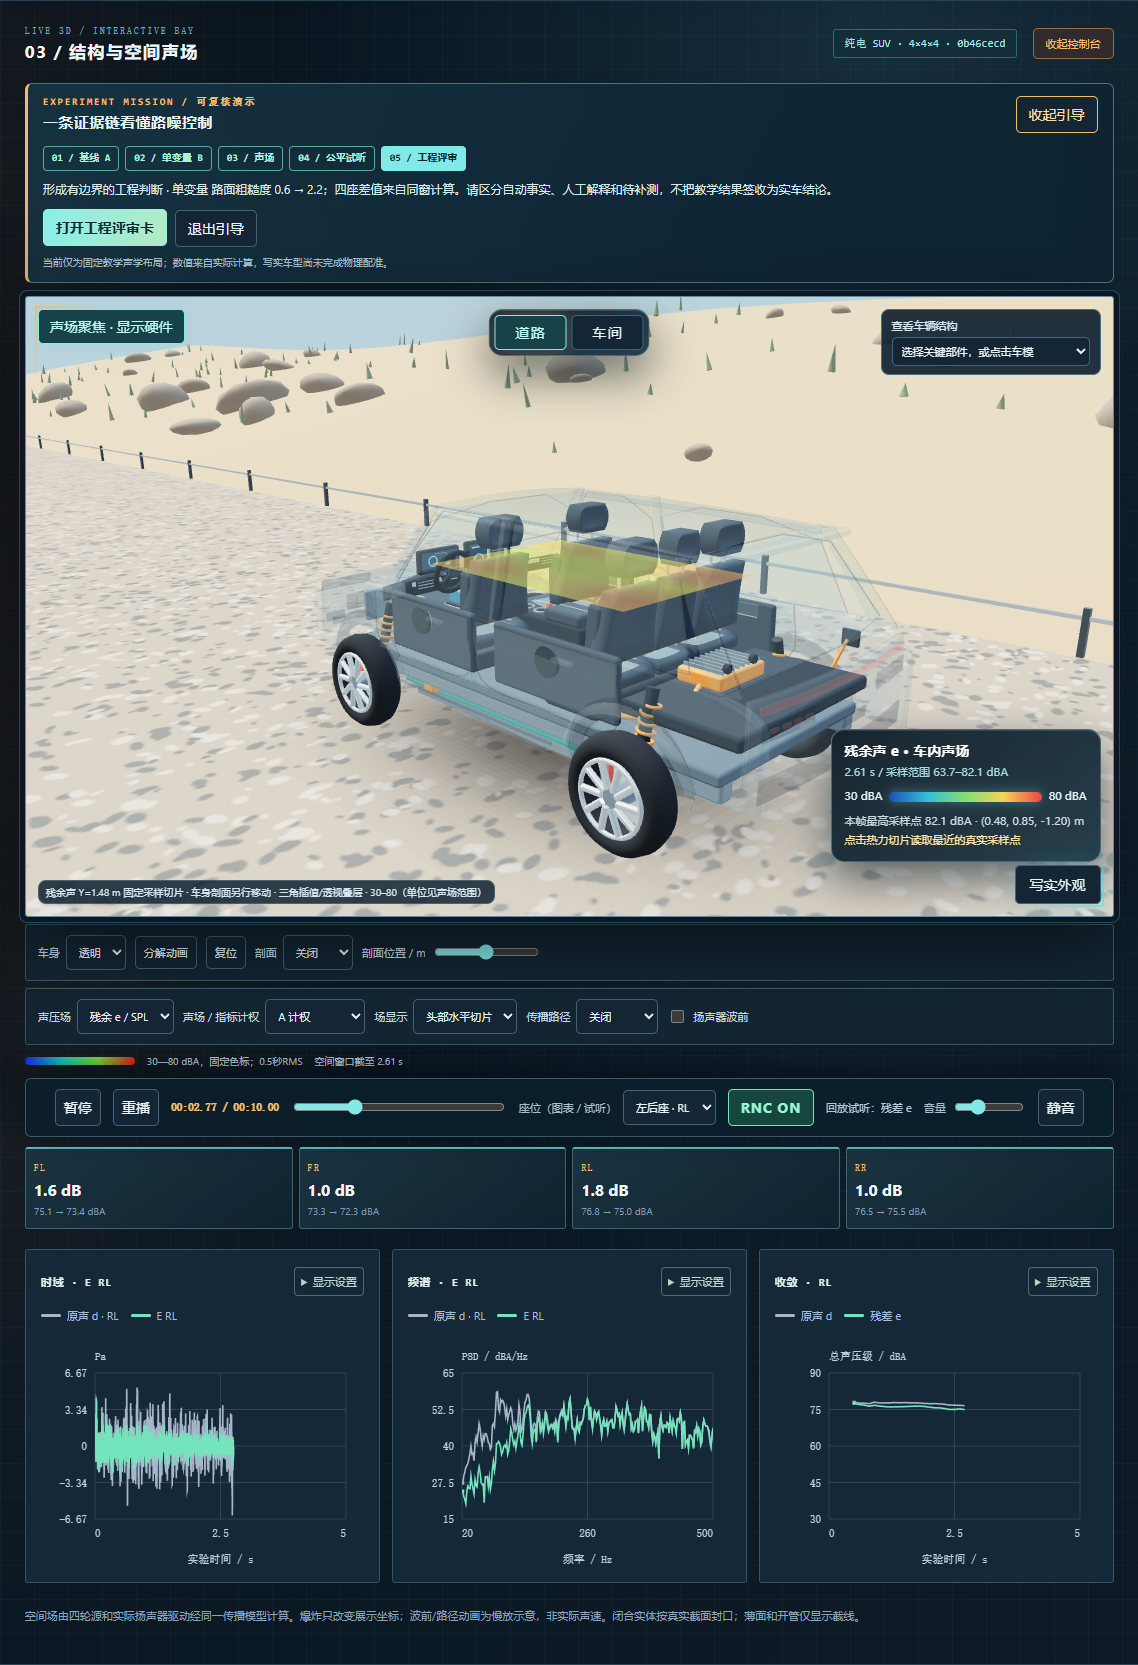
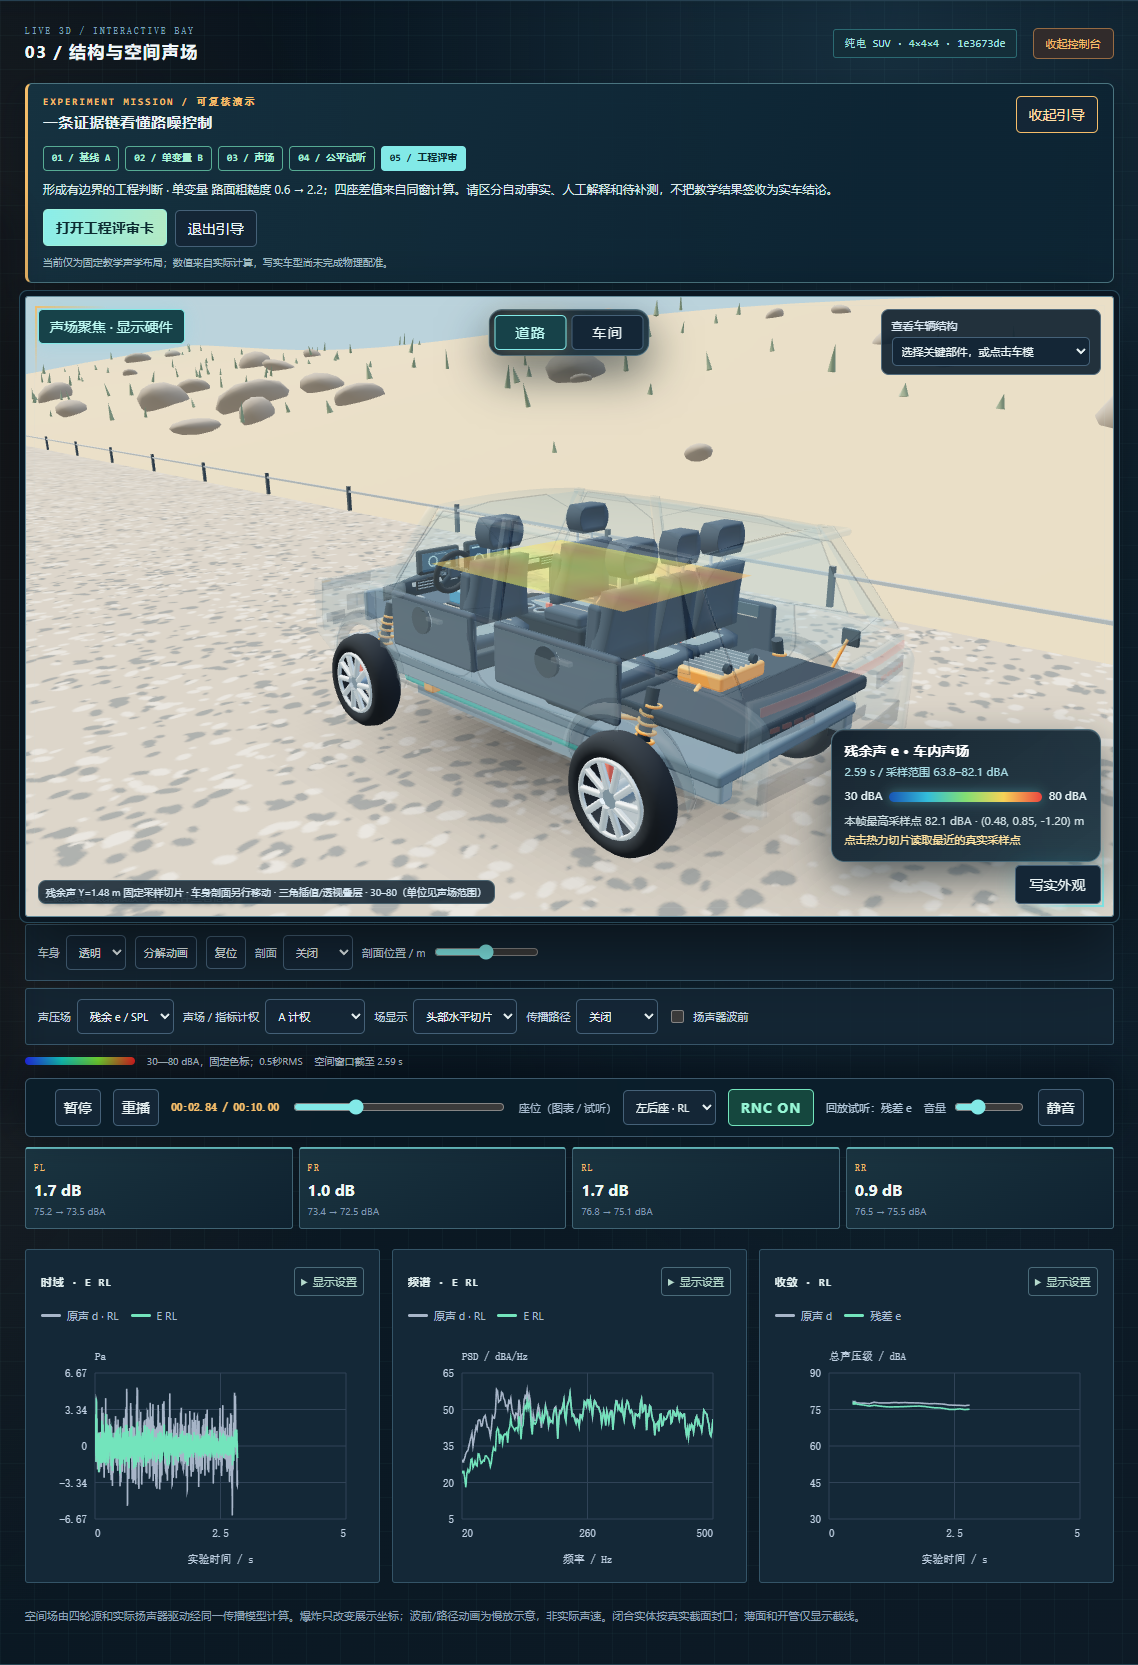
fix(a1): align guided field with case comparison window
Role: A1
Task: A1-FULL-014
Identity-Source: user-declared
Executor: Codex on behalf of A1
Validation: pnpm check 131/131; production Chromium field at 10.00s and guided flow

diff --git a/src/team-a/lab/guide-state.ts b/src/team-a/lab/guide-state.ts
@@ -39,7 +39,7 @@ export function guideState(input: GuideInput): GuideState {
     const comparison = compareCases(input.baseline, input.candidate);
     if (!comparison.comparable) return step('repair', 2, '比较条件不一致', `${comparison.conditions.join('、')}不一致；不能计算 A/B 差值。基线 A 仍保留。`, '查看实验配置', true);
     if (comparison.changes.length !== 1) return step('repair', 2, '需要恰好一个变量', comparison.changes.length ? `当前改变了 ${comparison.changes.length} 项，不能把变化归因于其中一项。` : '两次配置完全相同，尚无候选条件。', '查看实验配置', true);
-    if (!input.candidateFieldReady) return step('field', 3, '查看候选 B 的车内声场', `已得到单变量比较：${comparison.changes[0]}。在同一候选实验中查看残余声场和四座数值；不将教学场投影到写实车。`, '显示候选声场');
+    if (!input.candidateFieldReady) return step('field', 3, '查看候选 B 的车内声场', `已得到单变量比较：${comparison.changes[0]}。查看候选末尾同一 0.5 秒窗口的残余声场和四座数值；不将教学场投影到写实车。`, '显示候选声场');
     if (!input.heardOriginal || !input.heardResidual) return step('listen', 4, '同座位、同片段公平试听', `A/B 数值已可复核。${input.heardOriginal ? '原声已试听；' : '先试听原声 d；'}${input.heardResidual ? '残差已试听。' : '再试听残差 e。'}试听切换不改变数值结果。`, input.heardOriginal ? '试听残差 e' : '试听原声 d');
     return step('review', 5, '形成有边界的工程判断', `单变量 ${comparison.changes[0]}；四座差值来自同窗计算。请区分自动事实、人工解释和待补测，不把教学结果签收为实车结论。`, '打开工程评审卡');
   }

diff --git a/docs/evidence/A1/A1-FULL-014/qa-guide.js b/docs/evidence/A1/A1-FULL-014/qa-guide.js
@@ -31,6 +31,8 @@ async (page) => {
   await stage('listen');
   await page.waitForFunction(() => document.querySelector('#lab-field-status')?.textContent?.includes('空间窗口截至'), undefined, { timeout: 45000 });
   const field = await page.locator('#lab-field-status').textContent();
+  if (!field?.includes('10.00 s')) throw new Error(`field is not aligned with the A/B window: ${field}`);
+  await page.locator('.lab-workspace').screenshot({ path: 'docs/evidence/A1/A1-FULL-014/field-window.png' });
   await page.locator('#lab-guide-action').click();
   await page.waitForFunction(() => document.querySelector('#lab-guide-action')?.textContent?.includes('试听残差'), undefined, { timeout: 30000 });
   await page.locator('#lab-guide-action').click();

diff --git a/src/team-a/lab/index.ts b/src/team-a/lab/index.ts
@@ -244,7 +244,7 @@ export function mountLab(root: HTMLElement, ports: LabPorts) {
       $<HTMLSelectElement>('field').value = 'residual';
       $<HTMLSelectElement>('field-slice').value = 'y';
       fieldOptions();
-      player.seek(Math.max(0.6, Math.min(3, result.sampleCount / result.config.sampleRateHz / 2)));
+      player.seek(result.sampleCount / result.config.sampleRateHz);
       draw();
     } else if (stage === 'listen' && result) {
       const wanted = guideHeardOriginal ? 'e' : 'd';

diff --git a/docs/evidence/A1/A1-FULL-014/README.md b/docs/evidence/A1/A1-FULL-014/README.md
@@ -7,12 +7,12 @@
 - 三维主舞台上方新增可展开的引导控制台，保留原有手动控制。引导按真实状态要求切换预计算、计算并保存基线 A、在三维道路切换路面、重算候选 B、显示有效候选声场、同座位同起点试听 d/e，最后打开已有工程评审卡。
 - 引导不生成新的噪声或收益数据；复用 `captureCase`/`compareCases` 和正式 Worker 结果。运行前用同一 A/B 比较口径检查配置，车型、车速等条件改变或多变量修改会进入修复步骤。失败/发散/无效末尾窗口、过期场或未播放的声音不推动步骤。
 - 试听解锁要求用户在引导操作中从同一候选运行的左后座、同一 2.00 s 起点分别实际播放原声和残差至少 0.5 s。它只验证浏览器播放时钟与路由流程，不替代物理设备听感或音画延迟测量。
-- 场只显示当前候选 B 的真实计算结果；基线 A 保留四座末尾窗口摘要，当前没有 A/B 空间差值热图。固定教学布局和非实车标定边界在控制台可见；引导完成不代表工程师已签署结论。
+- 场只显示当前候选 B 的真实计算结果；引导会定位到候选末尾，与 A/B 四座摘要使用同一 0.5 秒窗口。基线 A 保留四座末尾窗口摘要，当前没有 A/B 空间差值热图。固定教学布局和非实车标定边界在控制台可见；引导完成不代表工程师已签署结论。
 
 ## 验证
 
-- `pnpm check`：类型检查、A/B 源码边界、全仓测试、生产构建通过；新增三项专项覆盖实际 A/B 状态、混杂/工况变更和无效候选/过期场。构建主页面脚本 `index-GeZ0mADN.js` SHA-256 见 [原始摘要](result.json)。既有 viewer 大块构建提示保留。
-- `pnpm start` 生产版 Chromium 按 [可复现脚本](qa-guide.js)从进入引导走到评审：两次 10 s 正式 Worker 实验；三维碎石材质与粗糙度 `2.2` 同步；单变量路面 `0.6 → 2.2`，后排 RL/RR 残余差值各 `+5.6 dB`，这是候选**更吵**而非降噪改善；候选 3.00 s 残余场有效；左后座从相同 2.00 s 起点先后试听 d/e；评审卡打开并聚焦人工观察。390 px 宽度无横向溢出，改动车速后退回修复可比条件且清除旧场，退出后仍可手动操作；页面脚本错误 0、失败请求 0。[桌面整页舞台](desktop.png)、[窄屏引导](narrow-guide.png)为此同版截图。浏览器控制台仅现有 `/favicon.ico` 404。
+- `pnpm check`：类型检查、A/B 源码边界、全仓测试、生产构建通过；新增三项专项覆盖实际 A/B 状态、混杂/工况变更和无效候选/过期场。构建主页面脚本 `index-C747aQHj.js` SHA-256 见 [原始摘要](result.json)。既有 viewer 大块构建提示保留。
+- `pnpm start` 生产版 Chromium 按 [可复现脚本](qa-guide.js)从进入引导走到评审：[浏览器原始返回](browser-result.json)记录两次 10 s 正式 Worker 实验；三维碎石材质与粗糙度 `2.2` 同步；单变量路面 `0.6 → 2.2`，后排 RL/RR 残余差值各 `+5.6 dB`，这是候选**更吵**而非降噪改善；候选末尾 10.00 s 残余场有效，与 A/B 数值同窗；左后座从相同 2.00 s 起点先后试听 d/e，之后动态场随试听时间更新；评审卡打开并聚焦人工观察。390 px 宽度无横向溢出，改动车速后退回修复可比条件且清除旧场，退出后仍可手动操作；页面脚本错误 0、失败请求 0。[10.00 s 同窗声场](field-window.png)、[试听后桌面舞台](desktop.png)、[窄屏引导](narrow-guide.png)为此同版截图。浏览器控制台仅现有 `/favicon.ico` 404。
 - 首次 QA 脚本末尾因窄屏控制台折叠而无法直接操作隐藏车速滑杆；第二次重新进入时浏览器仍保持窄屏，脚本未先还原桌面宽度。两次都是脚本前置操作问题，未触及产品故障；脚本修正后完整通过。保留这一事实，避免把首轮也记为通过。
 
 尚未完成：四车型写实同车几何/声学锚点与 B 路径重算、A1 #38 共管审查、目标核显、实物音画、第二台 Windows 真实离线、正式同版发布包。这里的数值属于教学模型，不能用于实车标定或方案签收。

diff --git a/开发记录.md b/开发记录.md
@@ -4,6 +4,8 @@
 
 ## 当前状态
 
+**2026-09-29 / A1 / A1-FULL-014 同窗声场修正待推送**：Role: A1；Identity-Source: user-declared；执行者 Codex 代 A1。复核 [PR #39](https://github.com/KnowCooker/RNC_3D_SIMULATION/pull/39) 的生产截图发现初版引导展示候选 3.00 s 场，而 A/B 摘要为末尾 10.00 s；已改为候选末尾同一 0.5 秒窗口，生产 Chromium 完整引导、同座位 2.00 s d/e 试听、窄屏与失效回退复跑通过，截图/脚本/构建哈希同步见 [A1-FULL-014](docs/evidence/A1/A1-FULL-014/README.md)。仅改 A1 页面/引导说明、A1 证据与交接，B 数值和 A2 viewer 不动。下一步重新执行 `pnpm check`、推送、核对最新 CI；PR 未合并，终态同车物理布局与设备验收仍未完成。
+
 **2026-09-29 / A1 / A1-FULL-014 已推送、云端通过、待合并**：Role: A1；Identity-Source: user-declared；执行者 Codex 代 A1。功能与证据提交 `0d6d45e` 已推送 fork，原仓库 [PR #39](https://github.com/KnowCooker/RNC_3D_SIMULATION/pull/39) 已转可审查，功能 HEAD 的 [verify](https://github.com/KnowCooker/RNC_3D_SIMULATION/actions/runs/36468774406) 成功且 merge state CLEAN；未合并 main。本次仅回填 A1 交接与共同日志，不修改运行代码；本次文档 HEAD 的 CI 应另按最新状态复核。下一步审查合并 #39；#38 的 B1 共管接口审查、A2/B 同车物理布局及最终设备/正式包验收继续独立推进。
 
 **2026-09-29 / A1 / A1-FULL-014 引导式实验实现完成、待推送**：Role: A1；Identity-Source: user-declared；执行者 Codex 代 A1。[草稿 PR #39](https://github.com/KnowCooker/RNC_3D_SIMULATION/pull/39) 已发布认领 `b696079`，开放 PR 无同任务重复。仅改 A1 lab、A1 测试/证据、本角色交接和本记录；未改 A2/B/shared/integration。三维舞台引导真实基线 A、三维路面单变量 B、候选声场、同座位同起点 d/e 试听及工程评审；混杂/失败/失效不能解锁结论，教学布局边界可见。`pnpm check` 类型/边界/全仓测试/生产构建通过；生产 Chromium 两次 10 s Worker、0.6→2.2 路面联动、后排残余各 +5.6 dB（候选更吵）、有效候选场、同起点试听、评审、390 px 与旧场失效通过，页面脚本错误/失败请求0，证据见 [A1-FULL-014](docs/evidence/A1/A1-FULL-014/README.md)。首次两次脚本失败分别为窄屏控制台隐藏滑杆、会话保留窄屏，修正脚本后完整通过；现有 favicon 404 保留。下一步推送本批并核对 PR #39 最新 CI/审查；#38 待 B1 共管审查，A2/B 同车锚点/数值、目标核显/实物音画/第二机离线/正式包仍未完成。

diff --git a/docs/coordination/A1.md b/docs/coordination/A1.md
@@ -8,6 +8,7 @@
 - 验收：引导可启动/退出，保留原手动操作；基线保存、候选重算、可比性和评审步骤依据现有真实结果推进，配置改变或运行失效不会错误显示已完成；在三维舞台可看到当前步骤及下一操作，键盘和窄屏可用；A1 测试、`pnpm check`、生产浏览器完整流程及来源边界复核通过。目标核显、实物音画、第二台 Windows 离线和同车物理布局仍另验。
 - 依赖/请求：本任务只改善教学布局的实验判断链。写实同车声学仍依赖 A2 核实安装锚点、B 按布局重算 H/S/任意点场、B1 审查 #38 后由 A1 集成；不得因演示顺畅宣称最终四车配准完成。
 - 实际结果：引导依赖真实 Worker 的 A/B 运行、单变量比较、有效候选场和同座位同起点播放时钟；失败、混杂条件及旧场不推进。`pnpm check` 类型/边界/全仓测试/构建通过；生产 Chromium 完整引导、390 px 窄屏、改车速回退、0 页面错误/失败请求通过。[固定版本脚本、摘要与截图](../evidence/A1/A1-FULL-014/README.md)。教学声场不冒充写实车物理场。
+- 同窗修正：审查截图时发现初版引导将候选声场定位在 3.00 s、A/B 四座比较取 10.00 s，虽同一实验但不同窗口；本批把引导声场定位到候选末尾 10.00 s，同 0.5 秒窗口复跑生产 Chromium 全流程通过，证据文件已更新。当前最新功能提交待推送和 CI 复核；这不改变真实计算或 A2/B 源码。
 - 精确下一步：核对本次文档提交的 PR #39 最新 HEAD 云端 `verify`，等待审查合并。随后按 #38 B1 审查结论与 A2/B 实际锚点进度安排同车声学接入；目标设备、实物音画、第二机离线和正式包仍待验。
 
 ## A1-FULL-012 / 案例评审卡与判断边界（2026-09-28）
